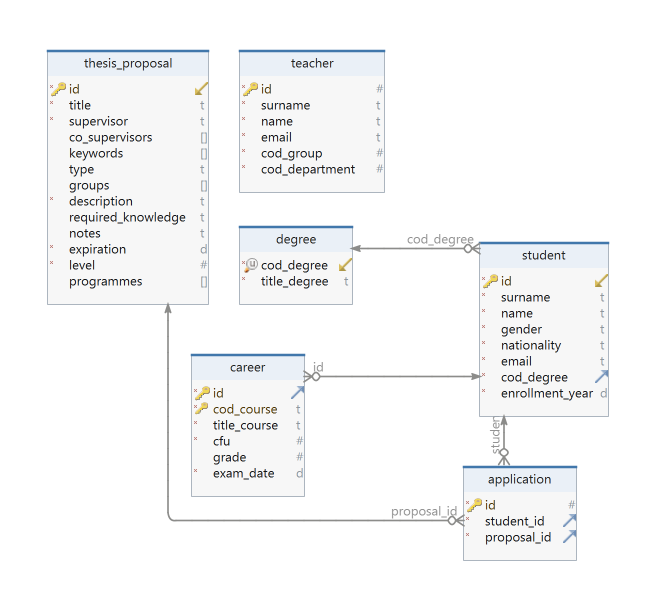
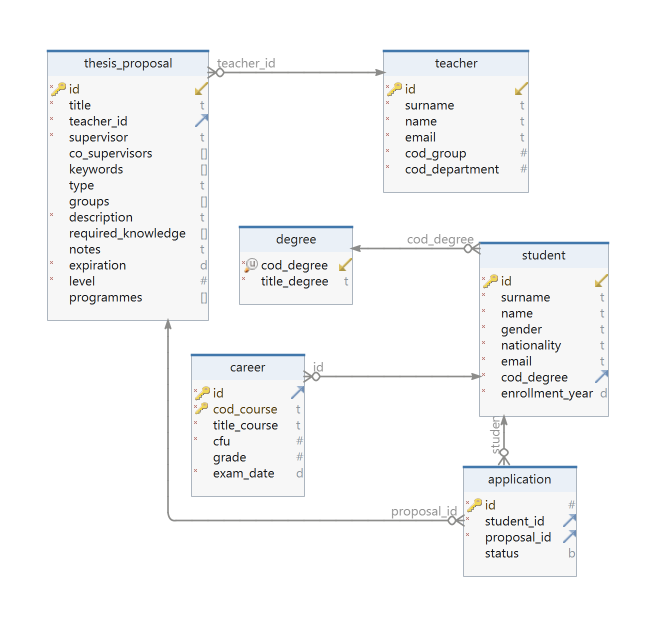
Fixup minor issues in database design

diff --git a/database/DESIGN.md b/database/DESIGN.md
@@ -7,13 +7,14 @@
 | ------------------ | ------- | ----------- | -------- | ----------------------------------------------------------------------------------------------------------------------------------- |
 | ID                 | SERIAL  | NO          | PRIMARY  | Autogenerated thesis ID                                                                                                             |
 | TITLE              | TEXT    | NO          |          | Title of the thesis                                                                                                                 |
+| TEACHER_ID         | INTEGER | NO          | FOREIGN  | ID of the teacher that proposed this thesis                                                                                        |
 | SUPERVISOR         | TEXT    | NO          |          | The email of the supervisor (since supervisors can be external and those aren't in the system, I can't use the internal teacher ID) |
 | CO_SUPERVISORS     | TEXT[]  | YES         |          | The emails of the co-supervisors                                                                                                    |
 | KEYWORDS           | TEXT[]  | NO          |          | Keywords that identify this thesis                                                                                                  |
 | TYPE               | TEXT    | NO          |          | Type of thesis (with company, out of country, etc)                                                                                  |
 | GROUPS             | TEXT[]  | YES         |          | Groups that handle this thesis                                                                                                      |
 | DESCRIPTION        | TEXT    | NO          |          | Description of the thesis                                                                                                           |
-| REQUIRED_KNOWLEDGE | TEXT    | NO          |          | Required course/general concepts to know for this thesis                                                                            |
+| REQUIRED_KNOWLEDGE | TEXT[]   | NO          |          | Required course/general concepts to know for this thesis                                                                            |
 | NOTES              | TEXT    | YES         |          | Extra notes on this thesis                                                                                                          |
 | EXPIRATION         | DATE    | NO          |          | Date of expiration of this thesis proposal                                                                                          |
 | LEVEL              | INTEGER | NO          |          | Level of this thesis, e.g. 1 for bachelor, 2 for masters and 3 for doctorate                                                                                                                |
@@ -63,3 +64,4 @@
 | ID          | SERIAL  | NO          | PRIMARY  | Id of the application                                 |
 | STUDENT_ID  | INTEGER | NO          | FOREIGN  | Id of the student that applied                        |
 | PROPOSAL_ID | INTEGER | NO          | FOREIGN  | Id of the thesis proposal that the student applied to |
+| STATUS      | BOOL    | YES         |          | Status of the application, NULL means not evaluated, TRUE means accepted, FALSE means rejected |
